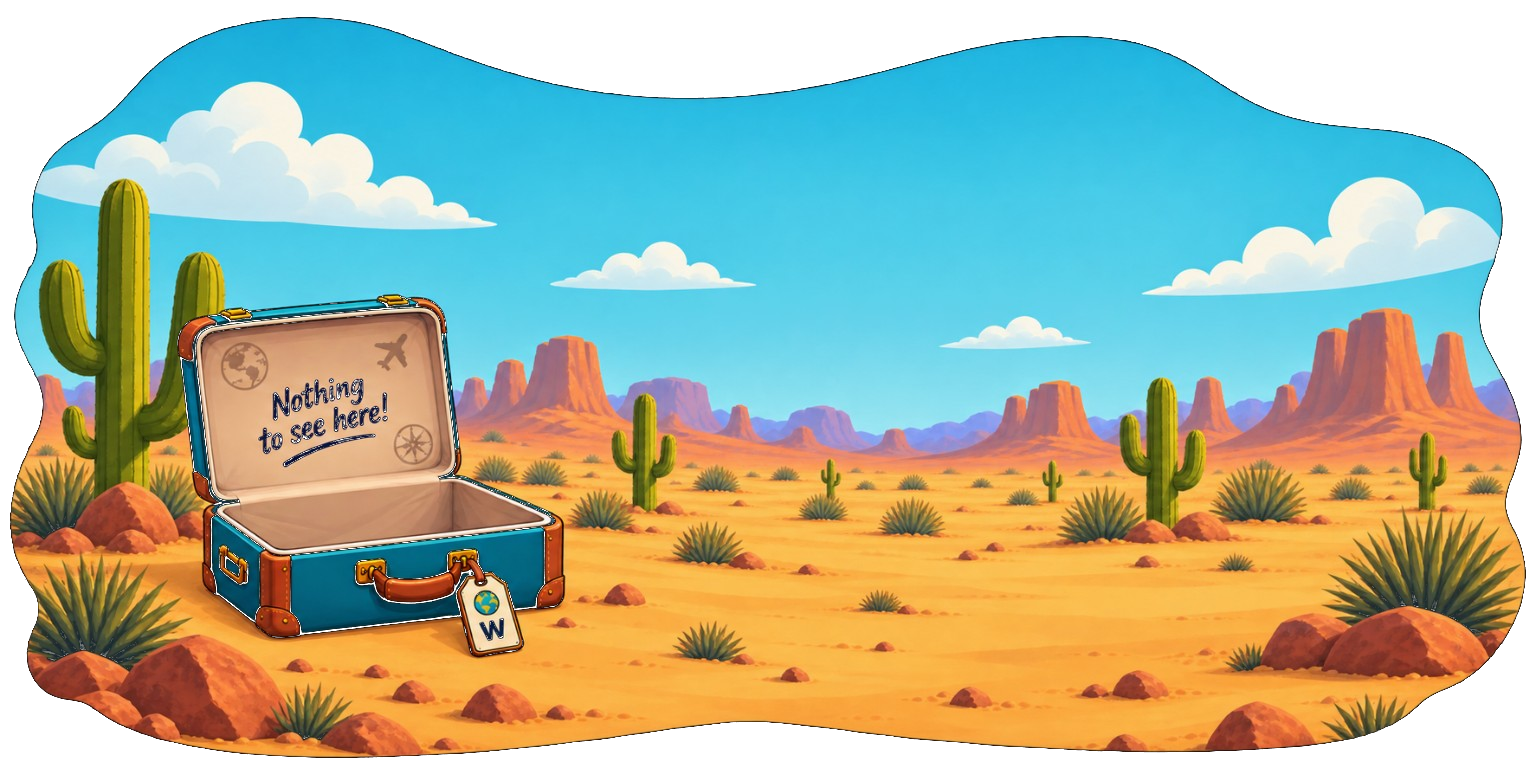
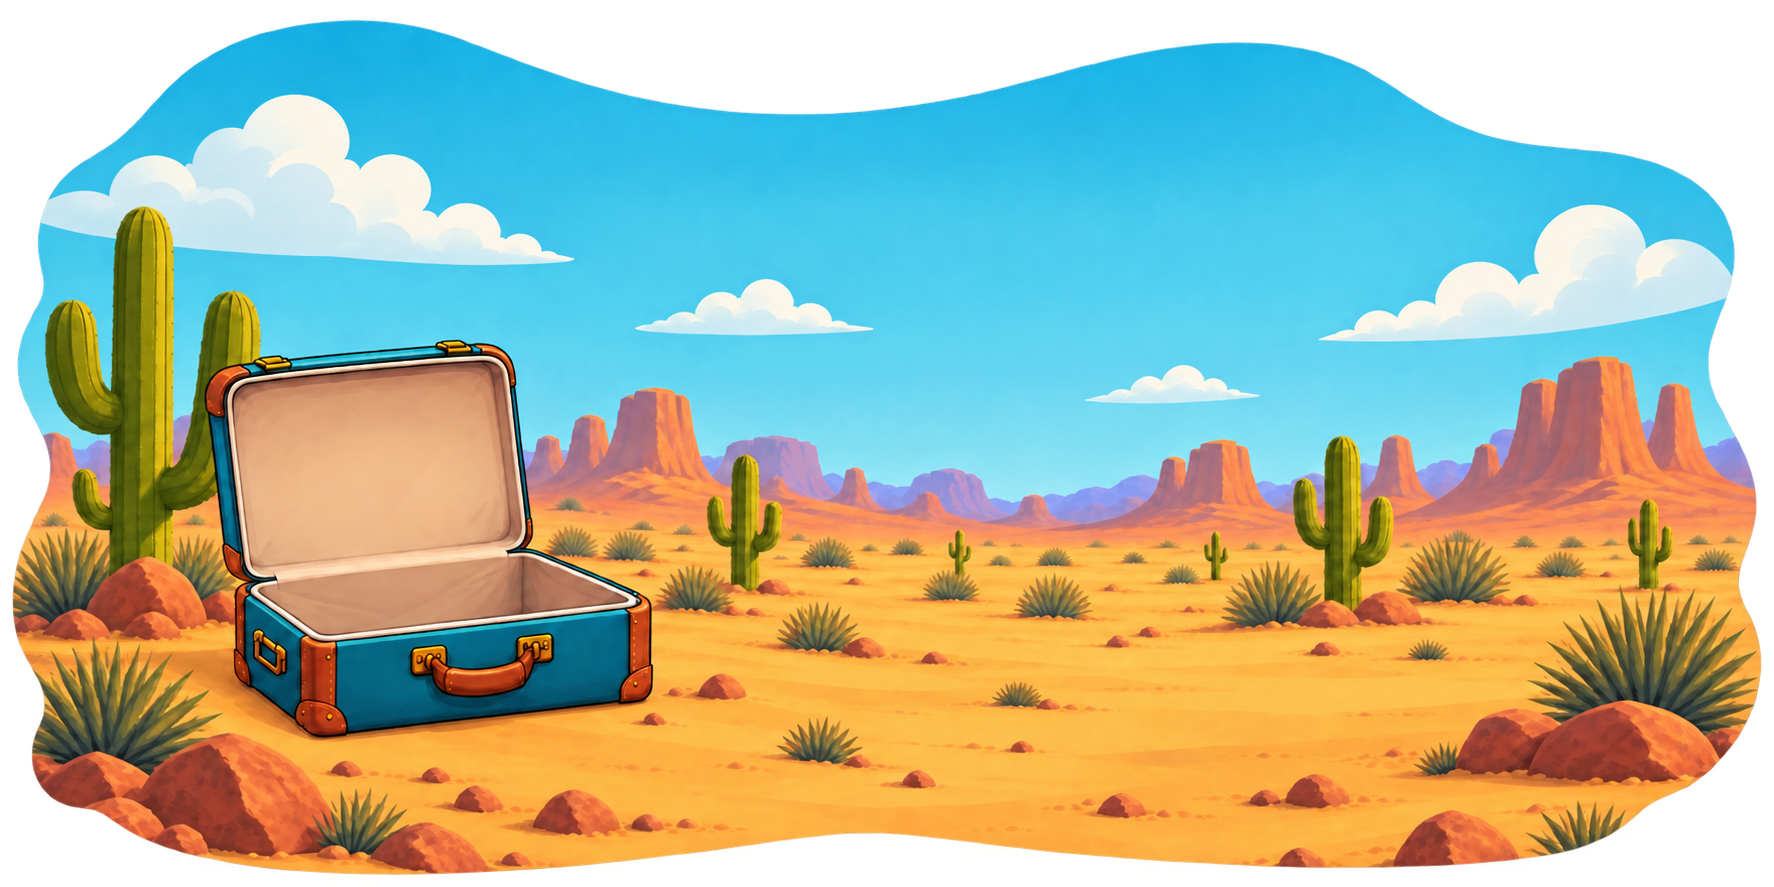
Add files via upload

diff --git a/app.js b/app.js
@@ -137,7 +137,7 @@ function showPeople(c){const p=countryCompanions(c);$('#peopleDialogTitle').text
 function openRemoveDialog(c,status=null){pendingRemoveCountry=c;pendingRemoveStatus=status||state.statuses[c];status=pendingRemoveStatus;const label=status==='visited'?'Visited':status==='going'?'Visiting':'Bucket List',bodyLabel=status==='visited'?'visited countries':status==='going'?'visiting countries':'Bucket List';$('#removeDialogTitle').textContent=`Remove from ${label}?`;const dialog=$('#removeDialog'),copy=dialog?.querySelector('p'),confirm=$('#confirmRemove');if(copy)copy.textContent=`Do you want to remove ${c} from your ${bodyLabel}? You can always add it back later.`;if(confirm)confirm.textContent='Remove';dialog.showModal()}function removeCountry(c,status=pendingRemoveStatus||state.statuses[c]){if(!status||!countryHasStatus(c,status))return;const item={country:c,status,removedAt:Date.now()};state.recycleBin=state.recycleBin.filter(x=>!(x.country===c&&x.status===status));state.recycleBin.unshift(item);setCountryStatus(c,status,false);lastRemoved=item;save();toast(`${c} removed — tap to undo`,undoLastRemove)}function undoLastRemove(){if(!lastRemoved)return;setCountryStatus(lastRemoved.country,lastRemoved.status,true);state.recycleBin=state.recycleBin.filter(i=>!(i.country===lastRemoved.country&&i.status===lastRemoved.status));lastRemoved=null;save();toast('Country restored')}
 function permanentlyDeleteCountryAt(i){const x=state.recycleBin[i];if(!x)return;delete state.companions[x.country];delete state.memories[x.country];delete state.places[x.country];delete state.cities[x.country];state.trips=state.trips.map(t=>({...t,countries:tripCountries(t).filter(c=>!sameCountry(c,x.country))})).filter(t=>t.countries.length);state.recycleBin.splice(i,1)}
 let permanentDeleteAction=null;function askPermanentDelete(title,text,action){permanentDeleteAction=action;$('#permanentDeleteTitle').textContent=title;$('#permanentDeleteText').textContent=text;$('#permanentDeleteDialog').showModal()}$('#cancelPermanentDelete').onclick=()=>{permanentDeleteAction=null;$('#permanentDeleteDialog').close()};$('#confirmPermanentDelete').onclick=()=>{const fn=permanentDeleteAction;permanentDeleteAction=null;$('#permanentDeleteDialog').close();fn?.()};
-function renderRecycleBin(){const el=$('#recycleList');if(!el)return;let selection=new Set(),selectMode=false;const undo=`<svg viewBox="0 0 24 24" aria-hidden="true"><path d="M9 7H5v-4M5.5 7.5A8 8 0 1 1 4 14"/></svg>`,bin=`<svg viewBox="0 0 24 24" aria-hidden="true"><path d="M4 7h16M9 7V4h6v3M7 7l1 13h8l1-13M10 11v5M14 11v5"/></svg>`;const countries=state.recycleBin.map((x,i)=>`<div class="recycle-row" data-recycle-key="c:${i}"><button type="button" class="recycle-select-dot" aria-label="Select ${esc(x.country)}" tabindex="-1">✓</button>${flagMarkup(x.country)}<span class="recycle-copy"><strong>${esc(x.country)}</strong><small>Country</small></span><span class="recycle-actions"><button class="restore-btn" data-restore-country="${i}" aria-label="Restore ${esc(x.country)}">${undo}</button><button class="delete-btn" data-delete-country="${i}" aria-label="Delete ${esc(x.country)} permanently">${bin}</button></span></div>`);const companions=state.companionRecycleBin.map((x,i)=>`<div class="recycle-row" data-recycle-key="p:${i}"><button type="button" class="recycle-select-dot" aria-label="Select ${esc(x.name)}" tabindex="-1">✓</button><span class="recycle-copy"><strong>${esc(x.name)}</strong><small>Travel companion</small></span><span class="recycle-actions"><button class="restore-btn" data-restore-companion="${i}" aria-label="Restore ${esc(x.name)}">${undo}</button><button class="delete-btn" data-delete-companion="${i}" aria-label="Delete ${esc(x.name)} permanently">${bin}</button></span></div>`);const vibes=state.vibeRecycleBin.map((x,i)=>`<div class="recycle-row" data-recycle-key="v:${i}"><button type="button" class="recycle-select-dot" aria-label="Select ${esc(x.name)}" tabindex="-1">✓</button><span class="recycle-copy"><strong>${esc(x.name)}</strong><small>Custom vibe</small></span><span class="recycle-actions"><button class="restore-btn" data-restore-vibe="${i}" aria-label="Restore ${esc(x.name)}">${undo}</button><button class="delete-btn" data-delete-vibe="${i}" aria-label="Delete ${esc(x.name)} permanently">${bin}</button></span></div>`);const trips=state.tripRecycleBin.map((t,i)=>`<div class="recycle-row" data-recycle-key="t:${i}"><button type="button" class="recycle-select-dot" aria-label="Select ${esc(t.name)}" tabindex="-1">✓</button><span class="recycle-trip-icon">✈</span><span class="recycle-copy"><strong>${esc(t.name)}</strong><small>Trip · ${tripCountries(t).map(esc).join(' · ')}</small></span><span class="recycle-actions"><button class="restore-btn" data-restore-trip="${i}" aria-label="Restore ${esc(t.name)}">${undo}</button><button class="delete-btn" data-delete-trip="${i}" aria-label="Delete ${esc(t.name)} permanently">${bin}</button></span></div>`);el.innerHTML=(countries.length||trips.length||companions.length||vibes.length)?`<div class="recycle-select-head"><span>Choose items to restore or permanently delete.</span><button type="button" data-enter-select>Select</button></div><div class="recycle-bulkbar" hidden><strong><span data-selected-count>0</span> selected</strong><button type="button" data-select-all>Select all</button><button type="button" data-delete-selected disabled>Delete selected</button><button type="button" data-cancel-selected>Done</button></div>${[...countries,...trips,...companions,...vibes].join('')}`:`<div class="recycle-empty-state recycle-desert-empty"><div class="recycle-desert-scene"><img class="recycle-desert-bg" src="recycle-empty-desert.png" alt="Open suitcase in a quiet desert with Nothing to see here written inside"><img class="recycle-tumbleweed" src="recycle-tumbleweed.png" alt="" aria-hidden="true"></div></div>`;const bar=el.querySelector('.recycle-bulkbar'),head=el.querySelector('.recycle-select-head'),deleteSelected=el.querySelector('[data-delete-selected]'),selectAll=el.querySelector('[data-select-all]');const rows=()=>[...el.querySelectorAll('.recycle-row')];const sync=()=>{el.classList.toggle('selection-mode',selectMode);if(head)head.hidden=selectMode;if(bar)bar.hidden=!selectMode;el.querySelector('[data-selected-count]')&&(el.querySelector('[data-selected-count]').textContent=selection.size);if(deleteSelected)deleteSelected.disabled=!selection.size;if(selectAll)selectAll.textContent=selection.size===rows().length&&rows().length?'Deselect all':'Select all';rows().forEach(r=>{const on=selection.has(r.dataset.recycleKey);r.classList.toggle('selected',on);r.querySelector('.recycle-select-dot')?.setAttribute('aria-pressed',String(on))})};const toggleRow=row=>{if(!selectMode)return;selection.has(row.dataset.recycleKey)?selection.delete(row.dataset.recycleKey):selection.add(row.dataset.recycleKey);sync()};el.querySelector('[data-enter-select]')?.addEventListener('click',()=>{selectMode=true;selection.clear();sync()});selectAll?.addEventListener('click',()=>{const all=rows();if(selection.size===all.length)selection.clear();else all.forEach(r=>selection.add(r.dataset.recycleKey));sync()});rows().forEach(row=>row.addEventListener('click',e=>{if(!selectMode||e.target.closest('.restore-btn,.delete-btn'))return;e.preventDefault();toggleRow(row)}));el.querySelectorAll('.recycle-select-dot').forEach(b=>b.onclick=e=>{e.preventDefault();e.stopPropagation();toggleRow(b.closest('.recycle-row'))});el.querySelectorAll('.delete-btn').forEach(btn=>btn.onclick=e=>{e.stopPropagation();if(selectMode)return;if(btn.dataset.deleteCountry!==undefined){const i=+btn.dataset.deleteCountry,x=state.recycleBin[i];askPermanentDelete('Delete permanently?',`Are you sure you want to permanently delete ${x.country}? This cannot be undone.`,()=>{permanentlyDeleteCountryAt(i);save()})}else if(btn.dataset.deleteCompanion!==undefined){const i=+btn.dataset.deleteCompanion,x=state.companionRecycleBin[i];askPermanentDelete('Delete permanently?',`Are you sure you want to permanently delete ${x.name}? This cannot be undone.`,()=>{state.companionRecycleBin.splice(i,1);save()})}else if(btn.dataset.deleteVibe!==undefined){const i=+btn.dataset.deleteVibe,x=state.vibeRecycleBin[i];askPermanentDelete('Delete permanently?',`Are you sure you want to permanently delete ${x.name}? This cannot be undone.`,()=>{state.vibeRecycleBin.splice(i,1);save()})}else{const i=+btn.dataset.deleteTrip,t=state.tripRecycleBin[i];askPermanentDelete('Delete permanently?',`Are you sure you want to permanently delete ${t.name}? This cannot be undone.`,()=>{state.tripRecycleBin.splice(i,1);save()})}});el.querySelectorAll('[data-restore-country]').forEach(b=>b.onclick=e=>{e.stopPropagation();const x=state.recycleBin[+b.dataset.restoreCountry];state.statuses[x.country]=x.status;state.recycleBin.splice(+b.dataset.restoreCountry,1);save()});el.querySelectorAll('[data-restore-companion]').forEach(b=>b.onclick=e=>{e.stopPropagation();const i=+b.dataset.restoreCompanion,x=state.companionRecycleBin[i];if(x&&!state.companionBank.some(n=>n.toLowerCase()===String(x.name).toLowerCase()))state.companionBank.push(x.name);state.companionRecycleBin.splice(i,1);save();toast(`${x.name} restored`)});el.querySelectorAll('[data-restore-vibe]').forEach(b=>b.onclick=e=>{e.stopPropagation();const i=+b.dataset.restoreVibe,x=state.vibeRecycleBin[i];if(x&&!state.vibeBank.some(n=>String(n).toLowerCase()===String(x.name).toLowerCase()))state.vibeBank.push(x.name);state.vibeRecycleBin.splice(i,1);save();toast(`${x.name} restored`)});el.querySelectorAll('[data-restore-trip]').forEach(b=>b.onclick=e=>{e.stopPropagation();const i=+b.dataset.restoreTrip,t=state.tripRecycleBin[i];state.trips.push(t);state.tripRecycleBin.splice(i,1);tripCountries(t).forEach(c=>{if(!state.statuses[c])state.statuses[c]=t.start&&countdownDays(t.start)>=0?'going':'visited'});save();toast(`${t.name} restored`)});el.querySelector('[data-cancel-selected]')?.addEventListener('click',()=>{selection.clear();selectMode=false;sync()});deleteSelected?.addEventListener('click',()=>{if(!selection.size)return;askPermanentDelete('Delete permanently?',`Are you sure you want to permanently delete ${selection.size} selected item${selection.size===1?'':'s'}? This cannot be undone.`,()=>{const ci=[...selection].filter(k=>k.startsWith('c:')).map(k=>+k.slice(2)).sort((a,b)=>b-a),ti=[...selection].filter(k=>k.startsWith('t:')).map(k=>+k.slice(2)).sort((a,b)=>b-a),pi=[...selection].filter(k=>k.startsWith('p:')).map(k=>+k.slice(2)).sort((a,b)=>b-a),vi=[...selection].filter(k=>k.startsWith('v:')).map(k=>+k.slice(2)).sort((a,b)=>b-a);ci.forEach(permanentlyDeleteCountryAt);ti.forEach(i=>state.tripRecycleBin.splice(i,1));pi.forEach(i=>state.companionRecycleBin.splice(i,1));vi.forEach(i=>state.vibeRecycleBin.splice(i,1));save()})});sync()}
+function renderRecycleBin(){const el=$('#recycleList');if(!el)return;let selection=new Set(),selectMode=false;const undo=`<svg viewBox="0 0 24 24" aria-hidden="true"><path d="M9 7H5v-4M5.5 7.5A8 8 0 1 1 4 14"/></svg>`,bin=`<svg viewBox="0 0 24 24" aria-hidden="true"><path d="M4 7h16M9 7V4h6v3M7 7l1 13h8l1-13M10 11v5M14 11v5"/></svg>`;const countries=state.recycleBin.map((x,i)=>`<div class="recycle-row" data-recycle-key="c:${i}"><button type="button" class="recycle-select-dot" aria-label="Select ${esc(x.country)}" tabindex="-1">✓</button>${flagMarkup(x.country)}<span class="recycle-copy"><strong>${esc(x.country)}</strong><small>Country</small></span><span class="recycle-actions"><button class="restore-btn" data-restore-country="${i}" aria-label="Restore ${esc(x.country)}">${undo}</button><button class="delete-btn" data-delete-country="${i}" aria-label="Delete ${esc(x.country)} permanently">${bin}</button></span></div>`);const companions=state.companionRecycleBin.map((x,i)=>`<div class="recycle-row" data-recycle-key="p:${i}"><button type="button" class="recycle-select-dot" aria-label="Select ${esc(x.name)}" tabindex="-1">✓</button><span class="recycle-copy"><strong>${esc(x.name)}</strong><small>Travel companion</small></span><span class="recycle-actions"><button class="restore-btn" data-restore-companion="${i}" aria-label="Restore ${esc(x.name)}">${undo}</button><button class="delete-btn" data-delete-companion="${i}" aria-label="Delete ${esc(x.name)} permanently">${bin}</button></span></div>`);const vibes=state.vibeRecycleBin.map((x,i)=>`<div class="recycle-row" data-recycle-key="v:${i}"><button type="button" class="recycle-select-dot" aria-label="Select ${esc(x.name)}" tabindex="-1">✓</button><span class="recycle-copy"><strong>${esc(x.name)}</strong><small>Custom vibe</small></span><span class="recycle-actions"><button class="restore-btn" data-restore-vibe="${i}" aria-label="Restore ${esc(x.name)}">${undo}</button><button class="delete-btn" data-delete-vibe="${i}" aria-label="Delete ${esc(x.name)} permanently">${bin}</button></span></div>`);const trips=state.tripRecycleBin.map((t,i)=>`<div class="recycle-row" data-recycle-key="t:${i}"><button type="button" class="recycle-select-dot" aria-label="Select ${esc(t.name)}" tabindex="-1">✓</button><span class="recycle-trip-icon">✈</span><span class="recycle-copy"><strong>${esc(t.name)}</strong><small>Trip · ${tripCountries(t).map(esc).join(' · ')}</small></span><span class="recycle-actions"><button class="restore-btn" data-restore-trip="${i}" aria-label="Restore ${esc(t.name)}">${undo}</button><button class="delete-btn" data-delete-trip="${i}" aria-label="Delete ${esc(t.name)} permanently">${bin}</button></span></div>`);el.innerHTML=(countries.length||trips.length||companions.length||vibes.length)?`<div class="recycle-select-head"><span>Choose items to restore or permanently delete.</span><button type="button" data-enter-select>Select</button></div><div class="recycle-bulkbar" hidden><strong><span data-selected-count>0</span> selected</strong><button type="button" data-select-all>Select all</button><button type="button" data-delete-selected disabled>Delete selected</button><button type="button" data-cancel-selected>Done</button></div>${[...countries,...trips,...companions,...vibes].join('')}`:`<div class="recycle-empty-state recycle-desert-empty"><p class="recycle-empty-subtitle">Nothing to see here.</p><div class="recycle-desert-scene"><img class="recycle-desert-bg" src="recycle-empty-desert.png" alt="Open suitcase in a quiet desert"><img class="recycle-tumbleweed" src="recycle-tumbleweed.png" alt="" aria-hidden="true"></div></div>`;const bar=el.querySelector('.recycle-bulkbar'),head=el.querySelector('.recycle-select-head'),deleteSelected=el.querySelector('[data-delete-selected]'),selectAll=el.querySelector('[data-select-all]');const rows=()=>[...el.querySelectorAll('.recycle-row')];const sync=()=>{el.classList.toggle('selection-mode',selectMode);if(head)head.hidden=selectMode;if(bar)bar.hidden=!selectMode;el.querySelector('[data-selected-count]')&&(el.querySelector('[data-selected-count]').textContent=selection.size);if(deleteSelected)deleteSelected.disabled=!selection.size;if(selectAll)selectAll.textContent=selection.size===rows().length&&rows().length?'Deselect all':'Select all';rows().forEach(r=>{const on=selection.has(r.dataset.recycleKey);r.classList.toggle('selected',on);r.querySelector('.recycle-select-dot')?.setAttribute('aria-pressed',String(on))})};const toggleRow=row=>{if(!selectMode)return;selection.has(row.dataset.recycleKey)?selection.delete(row.dataset.recycleKey):selection.add(row.dataset.recycleKey);sync()};el.querySelector('[data-enter-select]')?.addEventListener('click',()=>{selectMode=true;selection.clear();sync()});selectAll?.addEventListener('click',()=>{const all=rows();if(selection.size===all.length)selection.clear();else all.forEach(r=>selection.add(r.dataset.recycleKey));sync()});rows().forEach(row=>row.addEventListener('click',e=>{if(!selectMode||e.target.closest('.restore-btn,.delete-btn'))return;e.preventDefault();toggleRow(row)}));el.querySelectorAll('.recycle-select-dot').forEach(b=>b.onclick=e=>{e.preventDefault();e.stopPropagation();toggleRow(b.closest('.recycle-row'))});el.querySelectorAll('.delete-btn').forEach(btn=>btn.onclick=e=>{e.stopPropagation();if(selectMode)return;if(btn.dataset.deleteCountry!==undefined){const i=+btn.dataset.deleteCountry,x=state.recycleBin[i];askPermanentDelete('Delete permanently?',`Are you sure you want to permanently delete ${x.country}? This cannot be undone.`,()=>{permanentlyDeleteCountryAt(i);save()})}else if(btn.dataset.deleteCompanion!==undefined){const i=+btn.dataset.deleteCompanion,x=state.companionRecycleBin[i];askPermanentDelete('Delete permanently?',`Are you sure you want to permanently delete ${x.name}? This cannot be undone.`,()=>{state.companionRecycleBin.splice(i,1);save()})}else if(btn.dataset.deleteVibe!==undefined){const i=+btn.dataset.deleteVibe,x=state.vibeRecycleBin[i];askPermanentDelete('Delete permanently?',`Are you sure you want to permanently delete ${x.name}? This cannot be undone.`,()=>{state.vibeRecycleBin.splice(i,1);save()})}else{const i=+btn.dataset.deleteTrip,t=state.tripRecycleBin[i];askPermanentDelete('Delete permanently?',`Are you sure you want to permanently delete ${t.name}? This cannot be undone.`,()=>{state.tripRecycleBin.splice(i,1);save()})}});el.querySelectorAll('[data-restore-country]').forEach(b=>b.onclick=e=>{e.stopPropagation();const x=state.recycleBin[+b.dataset.restoreCountry];state.statuses[x.country]=x.status;state.recycleBin.splice(+b.dataset.restoreCountry,1);save()});el.querySelectorAll('[data-restore-companion]').forEach(b=>b.onclick=e=>{e.stopPropagation();const i=+b.dataset.restoreCompanion,x=state.companionRecycleBin[i];if(x&&!state.companionBank.some(n=>n.toLowerCase()===String(x.name).toLowerCase()))state.companionBank.push(x.name);state.companionRecycleBin.splice(i,1);save();toast(`${x.name} restored`)});el.querySelectorAll('[data-restore-vibe]').forEach(b=>b.onclick=e=>{e.stopPropagation();const i=+b.dataset.restoreVibe,x=state.vibeRecycleBin[i];if(x&&!state.vibeBank.some(n=>String(n).toLowerCase()===String(x.name).toLowerCase()))state.vibeBank.push(x.name);state.vibeRecycleBin.splice(i,1);save();toast(`${x.name} restored`)});el.querySelectorAll('[data-restore-trip]').forEach(b=>b.onclick=e=>{e.stopPropagation();const i=+b.dataset.restoreTrip,t=state.tripRecycleBin[i];state.trips.push(t);state.tripRecycleBin.splice(i,1);tripCountries(t).forEach(c=>{if(!state.statuses[c])state.statuses[c]=t.start&&countdownDays(t.start)>=0?'going':'visited'});save();toast(`${t.name} restored`)});el.querySelector('[data-cancel-selected]')?.addEventListener('click',()=>{selection.clear();selectMode=false;sync()});deleteSelected?.addEventListener('click',()=>{if(!selection.size)return;askPermanentDelete('Delete permanently?',`Are you sure you want to permanently delete ${selection.size} selected item${selection.size===1?'':'s'}? This cannot be undone.`,()=>{const ci=[...selection].filter(k=>k.startsWith('c:')).map(k=>+k.slice(2)).sort((a,b)=>b-a),ti=[...selection].filter(k=>k.startsWith('t:')).map(k=>+k.slice(2)).sort((a,b)=>b-a),pi=[...selection].filter(k=>k.startsWith('p:')).map(k=>+k.slice(2)).sort((a,b)=>b-a),vi=[...selection].filter(k=>k.startsWith('v:')).map(k=>+k.slice(2)).sort((a,b)=>b-a);ci.forEach(permanentlyDeleteCountryAt);ti.forEach(i=>state.tripRecycleBin.splice(i,1));pi.forEach(i=>state.companionRecycleBin.splice(i,1));vi.forEach(i=>state.vibeRecycleBin.splice(i,1));save()})});sync()}
 function closeCountrySearchPickers(fromPop=false){let closed=false;$$('.country-search').forEach(box=>{if(!box.hidden){box.hidden=true;closed=true}});if(closed&&!fromPop&&history.state?.wozzaCountryPicker)history.back();return closed}
 function ensureCountrySearchClose(box){if(box.querySelector('.country-search-close'))return;const input=box.querySelector('input');if(!input)return;let field=input.closest('.country-search-field');if(!field){field=document.createElement('div');field.className='country-search-field';input.parentNode.insertBefore(field,input);field.appendChild(input)}const close=document.createElement('button');close.type='button';close.className='country-search-close';close.setAttribute('aria-label','Close country picker');close.textContent='×';close.onclick=e=>{e.preventDefault();e.stopPropagation();closeCountrySearchPickers()};field.appendChild(close)}
 function setupCountrySearch(){if(!document.getElementById('country-search-close-style')){const st=document.createElement('style');st.id='country-search-close-style';st.textContent=`.country-search-field{position:relative!important;width:100%!important}.country-search-field>input{width:100%!important;box-sizing:border-box!important;padding-right:54px!important}.country-search-field>.country-search-close{position:absolute!important;z-index:5!important;right:14px!important;top:50%!important;transform:translateY(-50%)!important;width:30px!important;height:30px!important;border-radius:50%!important;border:0!important;background:#f1f0eb!important;color:#111!important;font-size:22px!important;line-height:1!important;font-weight:500!important;display:flex!important;align-items:center!important;justify-content:center!important;margin:0!important;padding:0!important}`;document.head.appendChild(st)}$$('.country-search').forEach(ensureCountrySearchClose);$$('.list-add').forEach(btn=>btn.onclick=()=>{const status=btn.dataset.addStatus,box=$(`.country-search[data-search-for="${status}"]`);$$('.country-search').forEach(x=>{if(x!==box)x.hidden=true});const opening=box.hidden;box.hidden=!box.hidden;if(opening){history.pushState({...history.state,wozzaCountryPicker:true},'');const input=box.querySelector('input');input.value='';renderSearchResults(box,status,'');input.focus()}else if(history.state?.wozzaCountryPicker)history.back()});$$('.country-search input').forEach(input=>input.oninput=()=>{const box=input.closest('.country-search');renderSearchResults(box,box.dataset.searchFor,input.value)})}

diff --git a/styles.css b/styles.css
@@ -4578,3 +4578,14 @@ body.trip-selection-focus header{
     opacity:.75!important;
   }
 }
+
+
+/* Recycle bin empty-state subtitle */
+#recycleDialog .recycle-empty-subtitle{
+  margin:0 0 10px!important;
+  color:#667077!important;
+  font-size:16px!important;
+  line-height:1.3!important;
+  font-weight:500!important;
+  text-align:left!important;
+}
